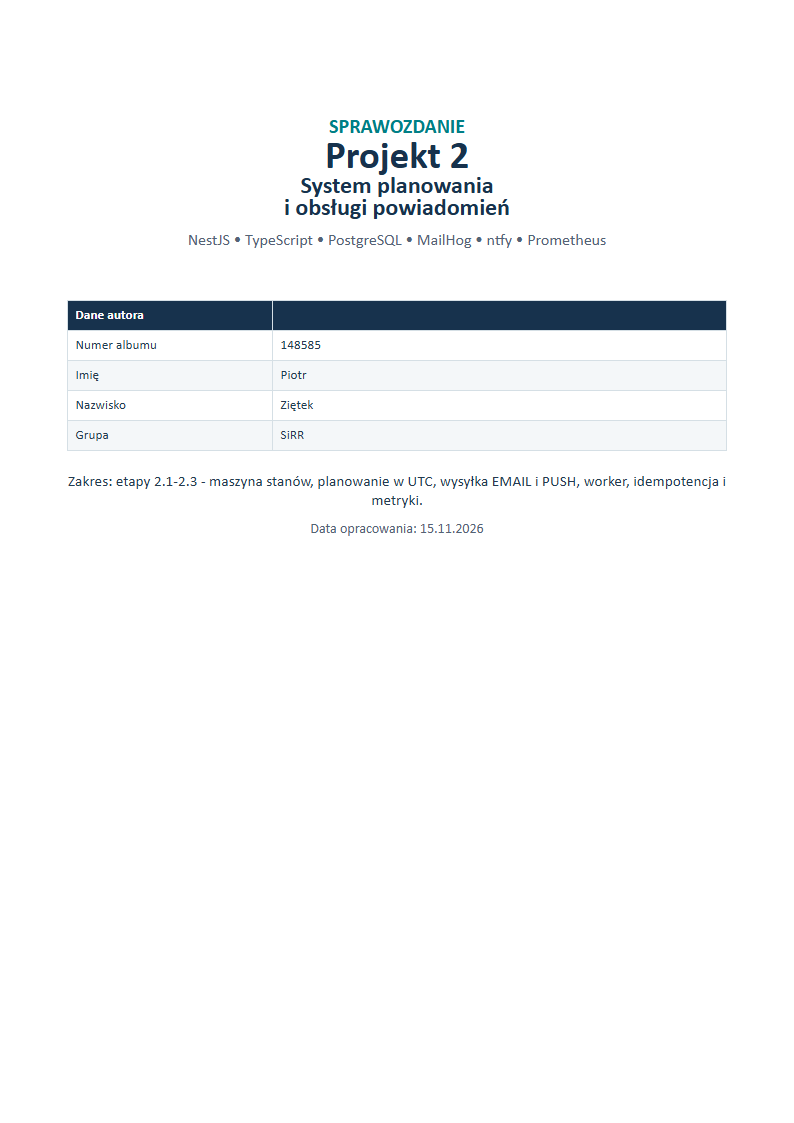
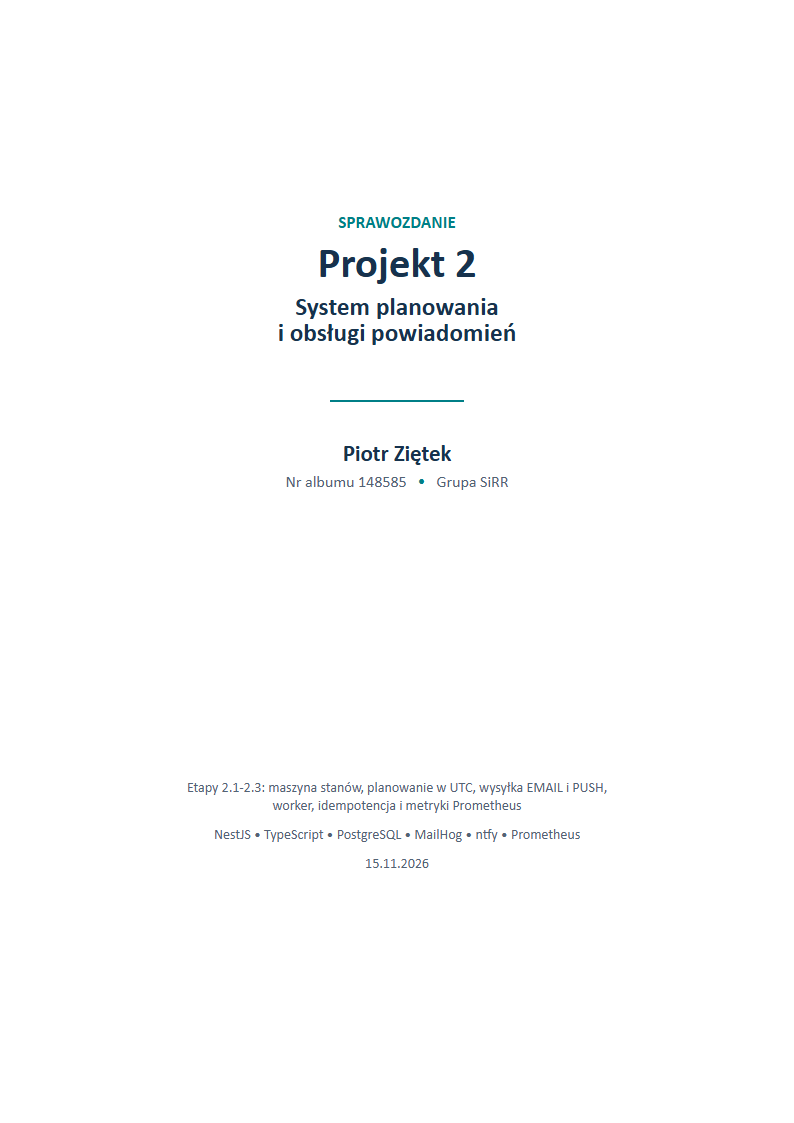
2: report - title page without author table
Author name, album number and group sit under the title; scope, stack and
date at the bottom. The lab skill now prescribes this title page.

diff --git a/.claude/skills/lab/SKILL.md b/.claude/skills/lab/SKILL.md
@@ -78,7 +78,9 @@ has a frontend, run the same cases through the frontend instead.
 - Styling: match `docs/reports/sprawozdanie_projekt_1/Piotr_Zietek_SiRR_nst_sprawozdanie_projekt_1.docx`
   (fonts, colors, tables, code blocks, figure captions), with these rules taking precedence:
   - No page header at all. The footer contains only the page number, centred.
-  - Title page author table filled in: Numer albumu 148585, Imię Piotr, Nazwisko Ziętek, Grupa SiRR.
+  - Title page like the lab 1 report (label "SPRAWOZDANIE", "Projekt <N>", the title), but no author table: right
+    under the title a short accent line, then "Piotr Ziętek" and "Nr albumu 148585 • Grupa SiRR". Scope, stack and
+    date go small at the bottom of the page. Reuse the title page code of the latest report's `build-report.cjs`.
   - No "Kod źródłowy: …" notes or other pointers to source files.
   - Few code snippets: only where a template point needs the code to make sense (e.g. a state machine definition,
     a key algorithm, a config the instruction asks for). Describe the rest in prose; never paste whole files.
